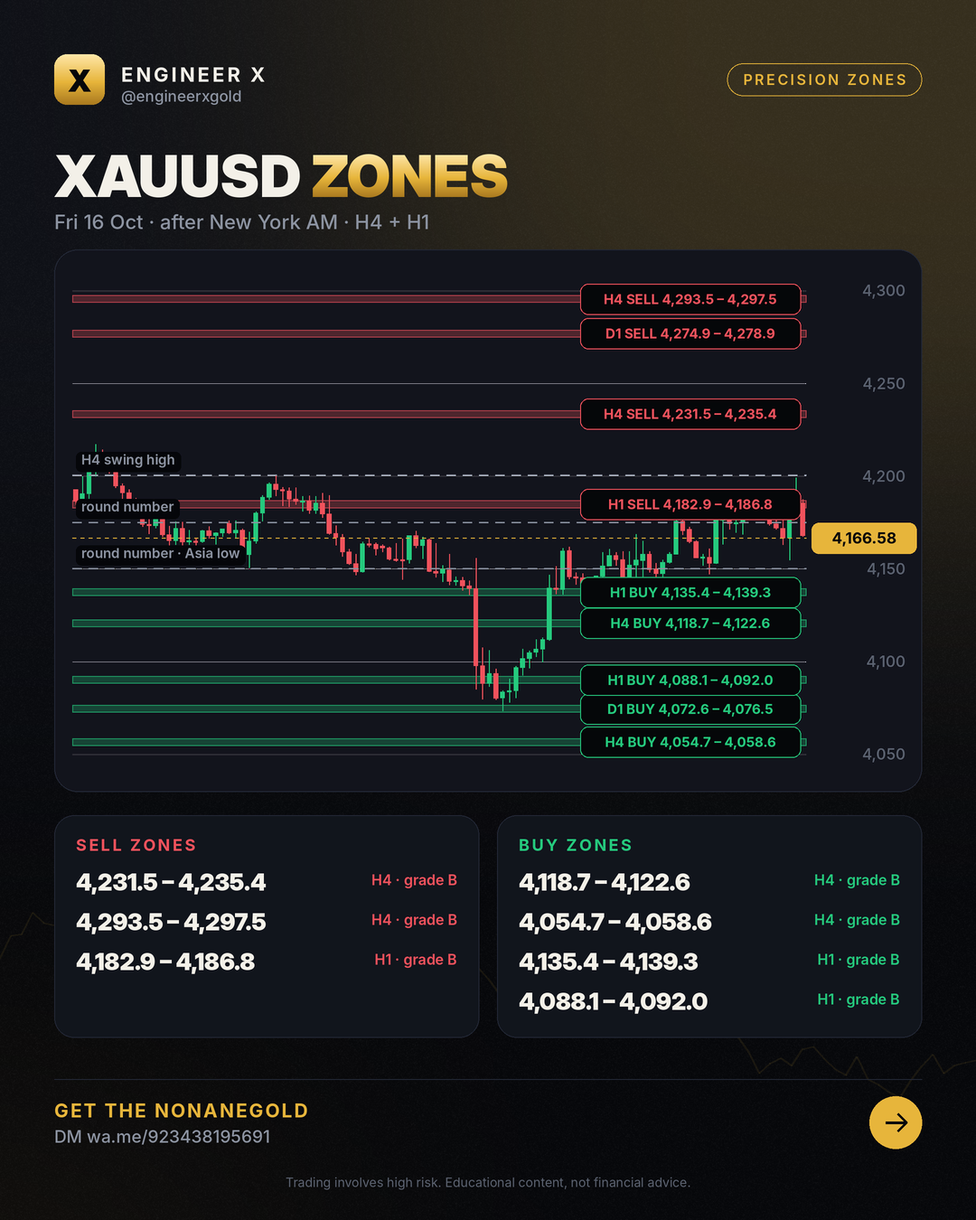
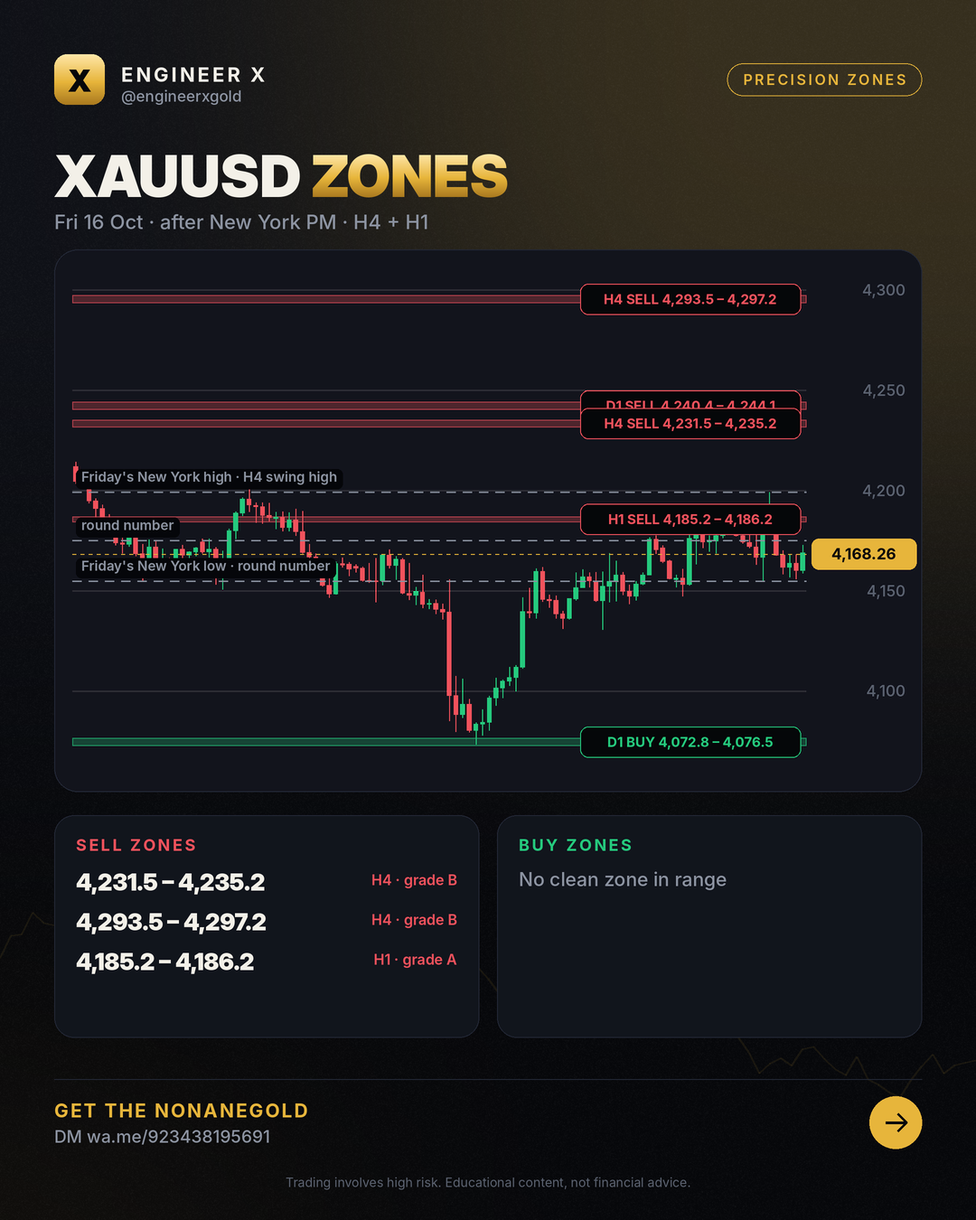
zones 2026-10-16 Fri 16 Oct · after New York PM · H4 + H1

diff --git a/zones/2026-10-16/index.html b/zones/2026-10-16/index.html
@@ -4,7 +4,7 @@
 <meta charset="utf-8">
 <meta name="viewport" content="width=device-width,initial-scale=1">
 <title>Gold Forecast – 16 Oct 2026 (H4 + H1)</title>
-<meta name="description" content="XAUUSD buy and sell zones for 2026-10-16: narrow H4 and H1 bands with invalidation levels, updated after the Asian, London and New York sessions. Price 4,166.58.">
+<meta name="description" content="XAUUSD buy and sell zones for 2026-10-16: narrow H4 and H1 bands with invalidation levels, updated after the Asian, London and New York sessions. Price 4,168.26.">
 <meta name="robots" content="index,follow,max-image-preview:large,max-snippet:-1,max-video-preview:-1">
 <meta name="author" content="Engr. M Ahmad Mehmood">
 <link rel="canonical" href="https://engineerxgold.github.io/zones/2026-10-16/">
@@ -12,7 +12,7 @@
 <link rel="apple-touch-icon" href="../../img/logo.png">
 <meta property="og:site_name" content="Engineer X">
 <meta property="og:title" content="Gold Forecast – 16 Oct 2026 (H4 + H1)">
-<meta property="og:description" content="XAUUSD buy and sell zones for 2026-10-16: narrow H4 and H1 bands with invalidation levels, updated after the Asian, London and New York sessions. Price 4,166.58.">
+<meta property="og:description" content="XAUUSD buy and sell zones for 2026-10-16: narrow H4 and H1 bands with invalidation levels, updated after the Asian, London and New York sessions. Price 4,168.26.">
 <meta property="og:type" content="article">
 <meta property="og:url" content="https://engineerxgold.github.io/zones/2026-10-16/">
 <meta property="og:image" content="https://engineerxgold.github.io/zones/img/2026-10-16.png">
@@ -22,7 +22,7 @@
 <meta property="og:locale" content="en_US">
 <meta name="twitter:card" content="summary_large_image">
 <meta name="twitter:title" content="Gold Forecast – 16 Oct 2026 (H4 + H1)">
-<meta name="twitter:description" content="XAUUSD buy and sell zones for 2026-10-16: narrow H4 and H1 bands with invalidation levels, updated after the Asian, London and New York sessions. Price 4,166.58.">
+<meta name="twitter:description" content="XAUUSD buy and sell zones for 2026-10-16: narrow H4 and H1 bands with invalidation levels, updated after the Asian, London and New York sessions. Price 4,168.26.">
 <meta name="twitter:image" content="https://engineerxgold.github.io/zones/img/2026-10-16.png">
 <meta name="twitter:image:alt" content="Gold Forecast – 16 Oct 2026 (H4 + H1)">
 
@@ -32,7 +32,7 @@
 <link rel="preconnect" href="https://fonts.googleapis.com">
 <link rel="preconnect" href="https://fonts.gstatic.com" crossorigin>
 <link href="https://fonts.googleapis.com/css2?family=Inter:wght@400;500;600;800;900&display=swap" rel="stylesheet">
-<script type="application/ld+json">{"@context": "https://schema.org", "@type": "Organization", "@id": "https://engineerxgold.github.io/#organization", "name": "Engineer X", "url": "https://engineerxgold.github.io/", "logo": {"@type": "ImageObject", "url": "https://engineerxgold.github.io/img/logo.png", "width": 512, "height": 512}, "sameAs": ["https://t.me/engineerxgold"]}</script><script type="application/ld+json">{"@context": "https://schema.org", "@type": "Article", "headline": "Gold Forecast – 16 Oct 2026 (H4 + H1)", "datePublished": "2026-10-16T08:00:00+05:00", "dateModified": "2026-10-16T21:03:28+05:00", "author": {"@type": "Person", "@id": "https://engineerxgold.github.io/about/#author", "name": "Engr. M Ahmad Mehmood", "url": "https://engineerxgold.github.io/about/", "jobTitle": "MQL5 Expert Advisor developer and gold market analyst", "worksFor": {"@id": "https://engineerxgold.github.io/#organization"}}, "publisher": {"@id": "https://engineerxgold.github.io/#organization"}, "image": "https://engineerxgold.github.io/zones/img/2026-10-16.png", "mainEntityOfPage": "https://engineerxgold.github.io/zones/2026-10-16/"}</script>
+<script type="application/ld+json">{"@context": "https://schema.org", "@type": "Organization", "@id": "https://engineerxgold.github.io/#organization", "name": "Engineer X", "url": "https://engineerxgold.github.io/", "logo": {"@type": "ImageObject", "url": "https://engineerxgold.github.io/img/logo.png", "width": 512, "height": 512}, "sameAs": ["https://t.me/engineerxgold"]}</script><script type="application/ld+json">{"@context": "https://schema.org", "@type": "Article", "headline": "Gold Forecast – 16 Oct 2026 (H4 + H1)", "datePublished": "2026-10-16T08:00:00+05:00", "dateModified": "2026-10-17T02:02:35+05:00", "author": {"@type": "Person", "@id": "https://engineerxgold.github.io/about/#author", "name": "Engr. M Ahmad Mehmood", "url": "https://engineerxgold.github.io/about/", "jobTitle": "MQL5 Expert Advisor developer and gold market analyst", "worksFor": {"@id": "https://engineerxgold.github.io/#organization"}}, "publisher": {"@id": "https://engineerxgold.github.io/#organization"}, "image": "https://engineerxgold.github.io/zones/img/2026-10-16.png", "mainEntityOfPage": "https://engineerxgold.github.io/zones/2026-10-16/"}</script>
 
 <style>
 :root{--gold:#E7B53B;--gold-hi:#FFE7A8;--bg:#07080B;--bg2:#0E1016;--panel:#12151D;--line:#232836;--green:#25C97D;--red:#F0525C;--text:#F3F0E8;--muted:#8C93A1}
@@ -101,7 +101,7 @@ footer .fl a{color:var(--muted);margin-right:16px}
 <div class="wrap">
 <nav><a class="logo" href="../../"><b>X</b>Engineer X</a>
 <div class="links"><a href="../../zones/">Daily Zones</a><a href="../../blog/">Learn</a><a href="../../ea/">Gold EA</a><a href="../../about/">About</a><a class="cta" href="https://wa.me/923438195691">Get the EA</a></div></nav>
-<article><p class="crumbs"><a href="../../">Home</a> › <a href="../">Zones</a> › 2026-10-16</p><h1>Gold Forecast – 16 Oct 2026 (H4 + H1)</h1><p class="byline">Fri 16 Oct · after New York AM · H4 + H1 · by Engr. M Ahmad Mehmood</p><img src="../img/2026-10-16.png" alt="XAUUSD zone map 2026-10-16" width="1080" height="1350" loading="eager"><h2>Zones</h2><div style="overflow-x:auto"><table style="width:100%;border-collapse:collapse;font-size:15px"><tr><th align=left>Zone</th><th align=left>Price band</th><th>Grade</th><th align=left>Invalid</th><th align=left>Why</th></tr><tr><td>D1 sell</td><td><b>4,274.91 – 4,278.85</b></td><td>A</td><td>above 4,315.83</td><td>D1 OB; order block: displacement + gap + break of structure; liquidity taken before the move; 1 lower-timeframe POI overlap; premium; fresh</td></tr><tr><td>H4 sell</td><td><b>4,231.49 – 4,235.43</b></td><td>B</td><td>above 4,279.67</td><td>H4 FVG; premium; just beyond H4 swing high (sweep area); fresh</td></tr><tr><td>H4 sell</td><td><b>4,293.53 – 4,297.47</b></td><td>B</td><td>above 4,315.83</td><td>H4 OB; order block: displacement + gap + break of structure; liquidity taken before the move; premium; fresh</td></tr><tr><td>H1 sell</td><td><b>4,182.88 – 4,186.82</b></td><td>B</td><td>above 4,194.69</td><td>beyond round number (stops rest there; sweeps often end here)</td></tr><tr><td>H1 buy</td><td><b>4,135.37 – 4,139.31</b></td><td>B</td><td>below 4,127.50</td><td>beyond Asia low + round number (stops rest there; sweeps often end here)</td></tr><tr><td>H1 buy</td><td><b>4,088.10 – 4,092.04</b></td><td>B</td><td>below 4,080.23</td><td>beyond previous day low (stops rest there; sweeps often end here)</td></tr><tr><td>H4 buy</td><td><b>4,118.70 – 4,122.64</b></td><td>B</td><td>below 4,110.83</td><td>beyond H4 swing low + yesterday&#x27;s New York low (stops rest there; sweeps often end here)</td></tr><tr><td>H4 buy</td><td><b>4,054.66 – 4,058.60</b></td><td>B</td><td>below 4,046.79</td><td>beyond previous week low + H4 swing low (stops rest there; sweeps often end here)</td></tr><tr><td>D1 buy</td><td><b>4,072.59 – 4,076.53</b></td><td>B</td><td>below 4,019.08</td><td>D1 OB; order block: displacement + gap + break of structure; liquidity taken before the move; discount; liquidity on the zone (H4 swing low) - often run; tested</td></tr></table></div><h2>How to read this map</h2><p>Bands are where price is expected to react; they are not entries. An hourly close beyond the invalidation price ends the zone. Obvious highs and lows (listed as liquidity) are often swept first, so our zones sit just beyond them.</p><div class="ctabox"><h3>🤖 Trade the zones with the NonaneGold</h3><p>Free signals group access + setup help Message us and we will help you set it up.</p><div class="btns"><a class="btn gold" href="https://wa.me/923438195691">Get the EA on Telegram</a><a class="btn ghost" href="../../ea/">About the EA</a></div></div></article>
+<article><p class="crumbs"><a href="../../">Home</a> › <a href="../">Zones</a> › 2026-10-16</p><h1>Gold Forecast – 16 Oct 2026 (H4 + H1)</h1><p class="byline">Fri 16 Oct · after New York PM · H4 + H1 · by Engr. M Ahmad Mehmood</p><img src="../img/2026-10-16.png" alt="XAUUSD zone map 2026-10-16" width="1080" height="1350" loading="eager"><h2>Zones</h2><div style="overflow-x:auto"><table style="width:100%;border-collapse:collapse;font-size:15px"><tr><th align=left>Zone</th><th align=left>Price band</th><th>Grade</th><th align=left>Invalid</th><th align=left>Why</th></tr><tr><td>D1 sell</td><td><b>4,240.38 – 4,244.10</b></td><td>A</td><td>above 4,304.08</td><td>D1 BRK; breaker: failed order block, now the other side; 1 lower-timeframe POI overlap; premium; just beyond H4 swing high (sweep area); fresh</td></tr><tr><td>H4 sell</td><td><b>4,231.49 – 4,235.21</b></td><td>B</td><td>above 4,279.67</td><td>H4 FVG; opposing liquidity (same timeframe) already swept - ICT: the draw may have flipped; premium; just beyond H4 swing high (sweep area); fresh</td></tr><tr><td>H4 sell</td><td><b>4,293.53 – 4,297.25</b></td><td>B</td><td>above 4,315.83</td><td>H4 OB; order block: displacement + gap + break of structure; opposing liquidity (same timeframe) already swept - ICT: the draw may have flipped; liquidity taken</td></tr><tr><td>H1 sell</td><td><b>4,185.17 – 4,186.17</b></td><td>A</td><td>above 4,199.06</td><td>H1 OB; order block: displacement + gap + break of structure; equal lows below = draw on liquidity; liquidity taken before the move; premium; just beyond round n</td></tr><tr><td>D1 buy</td><td><b>4,072.81 – 4,076.53</b></td><td>B</td><td>below 4,019.08</td><td>D1 OB; order block: displacement + gap + break of structure; liquidity taken before the move; discount; liquidity on the zone (H4 swing low) - often run; tested</td></tr></table></div><h2>How to read this map</h2><p>Bands are where price is expected to react; they are not entries. An hourly close beyond the invalidation price ends the zone. Obvious highs and lows (listed as liquidity) are often swept first, so our zones sit just beyond them.</p><div class="ctabox"><h3>🤖 Trade the zones with the NonaneGold</h3><p>Free signals group access + setup help Message us and we will help you set it up.</p><div class="btns"><a class="btn gold" href="https://wa.me/923438195691">Get the EA on Telegram</a><a class="btn ghost" href="../../ea/">About the EA</a></div></div></article>
 <footer>
 <div class="warn"><b>Risk warning:</b> Trading gold, forex and CFDs carries a high risk of losing money and is not suitable for everyone. Past results do not guarantee future results. Everything on this site is educational and not financial advice. We are an introducing partner of our broker and may earn a commission on accounts opened through our link.</div>
 <p class="fl" style="margin-top:18px"><a href="../../about/">About &amp; methodology</a><a href="../../privacy.html">Privacy</a><a href="../../terms.html">Terms &amp; risk disclosure</a><a href="../../feed.xml">RSS</a><a href="https://t.me/engineerxgold">Telegram</a></p>

diff --git a/zones/index.html b/zones/index.html
@@ -4,7 +4,7 @@
 <meta charset="utf-8">
 <meta name="viewport" content="width=device-width,initial-scale=1">
 <title>XAUUSD Zones Today – Buy &amp; Sell Zones (H4, H1) | Engineer X</title>
-<meta name="description" content="XAUUSD buy and sell zones for 2026-10-16: narrow H4 and H1 bands with invalidation levels, updated after the Asian, London and New York sessions. Price 4,166.58.">
+<meta name="description" content="XAUUSD buy and sell zones for 2026-10-16: narrow H4 and H1 bands with invalidation levels, updated after the Asian, London and New York sessions. Price 4,168.26.">
 <meta name="robots" content="index,follow,max-image-preview:large,max-snippet:-1,max-video-preview:-1">
 <meta name="author" content="Engr. M Ahmad Mehmood">
 <link rel="canonical" href="https://engineerxgold.github.io/zones/">
@@ -12,7 +12,7 @@
 <link rel="apple-touch-icon" href="../img/logo.png">
 <meta property="og:site_name" content="Engineer X">
 <meta property="og:title" content="XAUUSD Zones Today – Buy &amp; Sell Zones (H4, H1) | Engineer X">
-<meta property="og:description" content="XAUUSD buy and sell zones for 2026-10-16: narrow H4 and H1 bands with invalidation levels, updated after the Asian, London and New York sessions. Price 4,166.58.">
+<meta property="og:description" content="XAUUSD buy and sell zones for 2026-10-16: narrow H4 and H1 bands with invalidation levels, updated after the Asian, London and New York sessions. Price 4,168.26.">
 <meta property="og:type" content="website">
 <meta property="og:url" content="https://engineerxgold.github.io/zones/">
 <meta property="og:image" content="https://engineerxgold.github.io/zones/img/2026-10-16.png">
@@ -22,7 +22,7 @@
 <meta property="og:locale" content="en_US">
 <meta name="twitter:card" content="summary_large_image">
 <meta name="twitter:title" content="XAUUSD Zones Today – Buy &amp; Sell Zones (H4, H1) | Engineer X">
-<meta name="twitter:description" content="XAUUSD buy and sell zones for 2026-10-16: narrow H4 and H1 bands with invalidation levels, updated after the Asian, London and New York sessions. Price 4,166.58.">
+<meta name="twitter:description" content="XAUUSD buy and sell zones for 2026-10-16: narrow H4 and H1 bands with invalidation levels, updated after the Asian, London and New York sessions. Price 4,168.26.">
 <meta name="twitter:image" content="https://engineerxgold.github.io/zones/img/2026-10-16.png">
 <meta name="twitter:image:alt" content="XAUUSD Zones Today – Buy &amp; Sell Zones (H4, H1) | Engineer X">
 
@@ -101,7 +101,7 @@ footer .fl a{color:var(--muted);margin-right:16px}
 <div class="wrap">
 <nav><a class="logo" href="../"><b>X</b>Engineer X</a>
 <div class="links"><a href="../zones/">Daily Zones</a><a href="../blog/">Learn</a><a href="../ea/">Gold EA</a><a href="../about/">About</a><a class="cta" href="https://wa.me/923438195691">Get the EA</a></div></nav>
-<section class="hero"><span class="chip">Updated Fri 16 Oct · after New York AM · H4 + H1</span><h1>XAUUSD <span class="gold">precision zones</span></h1><p>XAUUSD buy and sell zones for 2026-10-16: narrow H4 and H1 bands with invalidation levels, updated after the Asian, London and New York sessions. Price 4,166.58.</p></section><img src="img/2026-10-16.png" alt="Latest XAUUSD zone map" width="1080" height="1350"><section><h2>Current zones</h2><div style="overflow-x:auto"><table style="width:100%;border-collapse:collapse;font-size:15px"><tr><th align=left>Zone</th><th align=left>Price band</th><th>Grade</th><th align=left>Invalid</th><th align=left>Why</th></tr><tr><td>D1 sell</td><td><b>4,274.91 – 4,278.85</b></td><td>A</td><td>above 4,315.83</td><td>D1 OB; order block: displacement + gap + break of structure; liquidity taken before the move; 1 lower-timeframe POI overlap; premium; fresh</td></tr><tr><td>H4 sell</td><td><b>4,231.49 – 4,235.43</b></td><td>B</td><td>above 4,279.67</td><td>H4 FVG; premium; just beyond H4 swing high (sweep area); fresh</td></tr><tr><td>H4 sell</td><td><b>4,293.53 – 4,297.47</b></td><td>B</td><td>above 4,315.83</td><td>H4 OB; order block: displacement + gap + break of structure; liquidity taken before the move; premium; fresh</td></tr><tr><td>H1 sell</td><td><b>4,182.88 – 4,186.82</b></td><td>B</td><td>above 4,194.69</td><td>beyond round number (stops rest there; sweeps often end here)</td></tr><tr><td>H1 buy</td><td><b>4,135.37 – 4,139.31</b></td><td>B</td><td>below 4,127.50</td><td>beyond Asia low + round number (stops rest there; sweeps often end here)</td></tr><tr><td>H1 buy</td><td><b>4,088.10 – 4,092.04</b></td><td>B</td><td>below 4,080.23</td><td>beyond previous day low (stops rest there; sweeps often end here)</td></tr><tr><td>H4 buy</td><td><b>4,118.70 – 4,122.64</b></td><td>B</td><td>below 4,110.83</td><td>beyond H4 swing low + yesterday&#x27;s New York low (stops rest there; sweeps often end here)</td></tr><tr><td>H4 buy</td><td><b>4,054.66 – 4,058.60</b></td><td>B</td><td>below 4,046.79</td><td>beyond previous week low + H4 swing low (stops rest there; sweeps often end here)</td></tr><tr><td>D1 buy</td><td><b>4,072.59 – 4,076.53</b></td><td>B</td><td>below 4,019.08</td><td>D1 OB; order block: displacement + gap + break of structure; liquidity taken before the move; discount; liquidity on the zone (H4 swing low) - often run; tested</td></tr></table></div></section><section><h2>Honest scorecard</h2><div class="grid"><div class="card"><div class="n">99</div><p>zones published (30 days)</p></div><div class="card"><div class="n">41</div><p>held (moved 1 hourly ATR away)</p></div><div class="card"><div class="n">3</div><p>broke (hourly close beyond invalidation)</p></div><div class="card"><div class="n">93%</div><p>hold rate of decided zones</p></div></div></section><div class="ctabox"><h3>🤖 Trade the zones with the NonaneGold</h3><p>Free signals group access + setup help Message us and we will help you set it up.</p><div class="btns"><a class="btn gold" href="https://wa.me/923438195691">Get the EA on Telegram</a><a class="btn ghost" href="../ea/">About the EA</a></div></div><section><h2>Archive</h2><div class="grid posts"><a class="card" href="2026-10-16/"><span class="date">2026-10-16</span><h3>XAUUSD zones 2026-10-16</h3></a><a class="card" href="2026-10-15/"><span class="date">2026-10-15</span><h3>XAUUSD zones 2026-10-15</h3></a><a class="card" href="2026-10-14/"><span class="date">2026-10-14</span><h3>XAUUSD zones 2026-10-14</h3></a><a class="card" href="2026-10-13/"><span class="date">2026-10-13</span><h3>XAUUSD zones 2026-10-13</h3></a></div></section>
+<section class="hero"><span class="chip">Updated Fri 16 Oct · after New York PM · H4 + H1</span><h1>XAUUSD <span class="gold">precision zones</span></h1><p>XAUUSD buy and sell zones for 2026-10-16: narrow H4 and H1 bands with invalidation levels, updated after the Asian, London and New York sessions. Price 4,168.26.</p></section><img src="img/2026-10-16.png" alt="Latest XAUUSD zone map" width="1080" height="1350"><section><h2>Current zones</h2><div style="overflow-x:auto"><table style="width:100%;border-collapse:collapse;font-size:15px"><tr><th align=left>Zone</th><th align=left>Price band</th><th>Grade</th><th align=left>Invalid</th><th align=left>Why</th></tr><tr><td>D1 sell</td><td><b>4,240.38 – 4,244.10</b></td><td>A</td><td>above 4,304.08</td><td>D1 BRK; breaker: failed order block, now the other side; 1 lower-timeframe POI overlap; premium; just beyond H4 swing high (sweep area); fresh</td></tr><tr><td>H4 sell</td><td><b>4,231.49 – 4,235.21</b></td><td>B</td><td>above 4,279.67</td><td>H4 FVG; opposing liquidity (same timeframe) already swept - ICT: the draw may have flipped; premium; just beyond H4 swing high (sweep area); fresh</td></tr><tr><td>H4 sell</td><td><b>4,293.53 – 4,297.25</b></td><td>B</td><td>above 4,315.83</td><td>H4 OB; order block: displacement + gap + break of structure; opposing liquidity (same timeframe) already swept - ICT: the draw may have flipped; liquidity taken</td></tr><tr><td>H1 sell</td><td><b>4,185.17 – 4,186.17</b></td><td>A</td><td>above 4,199.06</td><td>H1 OB; order block: displacement + gap + break of structure; equal lows below = draw on liquidity; liquidity taken before the move; premium; just beyond round n</td></tr><tr><td>D1 buy</td><td><b>4,072.81 – 4,076.53</b></td><td>B</td><td>below 4,019.08</td><td>D1 OB; order block: displacement + gap + break of structure; liquidity taken before the move; discount; liquidity on the zone (H4 swing low) - often run; tested</td></tr></table></div></section><section><h2>Honest scorecard</h2><div class="grid"><div class="card"><div class="n">107</div><p>zones published (30 days)</p></div><div class="card"><div class="n">41</div><p>held (moved 1 hourly ATR away)</p></div><div class="card"><div class="n">3</div><p>broke (hourly close beyond invalidation)</p></div><div class="card"><div class="n">93%</div><p>hold rate of decided zones</p></div></div></section><div class="ctabox"><h3>🤖 Trade the zones with the NonaneGold</h3><p>Free signals group access + setup help Message us and we will help you set it up.</p><div class="btns"><a class="btn gold" href="https://wa.me/923438195691">Get the EA on Telegram</a><a class="btn ghost" href="../ea/">About the EA</a></div></div><section><h2>Archive</h2><div class="grid posts"><a class="card" href="2026-10-16/"><span class="date">2026-10-16</span><h3>XAUUSD zones 2026-10-16</h3></a><a class="card" href="2026-10-15/"><span class="date">2026-10-15</span><h3>XAUUSD zones 2026-10-15</h3></a><a class="card" href="2026-10-14/"><span class="date">2026-10-14</span><h3>XAUUSD zones 2026-10-14</h3></a><a class="card" href="2026-10-13/"><span class="date">2026-10-13</span><h3>XAUUSD zones 2026-10-13</h3></a></div></section>
 <footer>
 <div class="warn"><b>Risk warning:</b> Trading gold, forex and CFDs carries a high risk of losing money and is not suitable for everyone. Past results do not guarantee future results. Everything on this site is educational and not financial advice. We are an introducing partner of our broker and may earn a commission on accounts opened through our link.</div>
 <p class="fl" style="margin-top:18px"><a href="../about/">About &amp; methodology</a><a href="../privacy.html">Privacy</a><a href="../terms.html">Terms &amp; risk disclosure</a><a href="../feed.xml">RSS</a><a href="https://t.me/engineerxgold">Telegram</a></p>

diff --git a/index.html b/index.html
@@ -101,7 +101,7 @@ footer .fl a{color:var(--muted);margin-right:16px}
 <div class="wrap">
 <nav><a class="logo" href="./"><b>X</b>Engineer X</a>
 <div class="links"><a href="./zones/">Daily Zones</a><a href="./blog/">Learn</a><a href="./ea/">Gold EA</a><a href="./about/">About</a><a class="cta" href="https://wa.me/923438195691">Get the EA</a></div></nav>
-<section class="hero"><span class="chip">XAUUSD · H4 + H1 · every session</span><h1>Gold <span class="gold">precision zones</span>, updated after every session</h1><p>Narrow buy and sell zones with clear invalidation, a scorecard of every result, and the NonaneGold for traders who want it automated.</p><div class="btns"><a class="btn gold" href="zones/">See today's zones</a><a class="btn ghost" href="https://wa.me/923438195691">Get the EA</a></div></section><section><h2>Latest map Fri 16 Oct · after New York AM · H4 + H1</h2><img src="zones/img/2026-10-16.png" alt="Latest XAUUSD zones" width="1080" height="1350"></section><div class="ctabox"><h3>🤖 Trade the zones with the NonaneGold</h3><p>Free signals group access + setup help Message us and we will help you set it up.</p><div class="btns"><a class="btn gold" href="https://wa.me/923438195691">Get the EA on Telegram</a><a class="btn ghost" href="ea/">About the EA</a></div></div><section><h2>Learn</h2><div class="grid posts"><a class="card" href="blog/gold-trading-h4-trend-and-live-market-zones-map/"><span class="date">2026-10-16</span><h3>Gold Trading: H4 Trend and Live Market Zones Map</h3></a><a class="card" href="blog/gold-price-today-navigating-h4-downtrend-key-zones/"><span class="date">2026-10-15</span><h3>Gold Price Today: Navigating H4 Downtrend &amp; Key Zones</h3></a><a class="card" href="blog/gold-supply-and-demand-zones-h4-h1-trading-map/"><span class="date">2026-10-14</span><h3>Gold Supply and Demand Zones: H4 &amp; H1 Trading Map</h3></a><a class="card" href="blog/gold-trading-strategy-for-zones-and-liquidity-in-xauusd/"><span class="date">2026-10-13</span><h3>Gold trading strategy for zones and liquidity in XAUUSD</h3></a><a class="card" href="blog/stop-loss-ke-baghair-trading-ticket-bina-safar/"><span class="date">2026-10-07</span><h3>Stop loss ke baghair trading = ticket bina safar</h3></a><a class="card" href="blog/gold-ke-3-sab-se-active-sessions/"><span class="date">2026-10-07</span><h3>Gold ke 3 sab se active sessions</h3></a></div></section><section><h2>FAQ</h2><details><summary>What is a precision zone?</summary><p>A narrow price band (about a quarter of the hourly range) where gold started a strong move or where a sweep of obvious liquidity usually ends. Each zone has an invalidation price.</p></details><details><summary>How often are the zones updated?</summary><p>A daily plan at the Asian open, then after the Asian, London and New York sessions.</p></details><details><summary>Are these trade signals?</summary><p>No. Zones are areas to watch. Wait for your own confirmation and manage risk.</p></details><details><summary>How do I get the Gold EA?</summary><p>Message us on Telegram or WhatsApp; we answer and help with the setup.</p></details></section>
+<section class="hero"><span class="chip">XAUUSD · H4 + H1 · every session</span><h1>Gold <span class="gold">precision zones</span>, updated after every session</h1><p>Narrow buy and sell zones with clear invalidation, a scorecard of every result, and the NonaneGold for traders who want it automated.</p><div class="btns"><a class="btn gold" href="zones/">See today's zones</a><a class="btn ghost" href="https://wa.me/923438195691">Get the EA</a></div></section><section><h2>Latest map Fri 16 Oct · after New York PM · H4 + H1</h2><img src="zones/img/2026-10-16.png" alt="Latest XAUUSD zones" width="1080" height="1350"></section><div class="ctabox"><h3>🤖 Trade the zones with the NonaneGold</h3><p>Free signals group access + setup help Message us and we will help you set it up.</p><div class="btns"><a class="btn gold" href="https://wa.me/923438195691">Get the EA on Telegram</a><a class="btn ghost" href="ea/">About the EA</a></div></div><section><h2>Learn</h2><div class="grid posts"><a class="card" href="blog/gold-trading-h4-trend-and-live-market-zones-map/"><span class="date">2026-10-16</span><h3>Gold Trading: H4 Trend and Live Market Zones Map</h3></a><a class="card" href="blog/gold-price-today-navigating-h4-downtrend-key-zones/"><span class="date">2026-10-15</span><h3>Gold Price Today: Navigating H4 Downtrend &amp; Key Zones</h3></a><a class="card" href="blog/gold-supply-and-demand-zones-h4-h1-trading-map/"><span class="date">2026-10-14</span><h3>Gold Supply and Demand Zones: H4 &amp; H1 Trading Map</h3></a><a class="card" href="blog/gold-trading-strategy-for-zones-and-liquidity-in-xauusd/"><span class="date">2026-10-13</span><h3>Gold trading strategy for zones and liquidity in XAUUSD</h3></a><a class="card" href="blog/stop-loss-ke-baghair-trading-ticket-bina-safar/"><span class="date">2026-10-07</span><h3>Stop loss ke baghair trading = ticket bina safar</h3></a><a class="card" href="blog/gold-ke-3-sab-se-active-sessions/"><span class="date">2026-10-07</span><h3>Gold ke 3 sab se active sessions</h3></a></div></section><section><h2>FAQ</h2><details><summary>What is a precision zone?</summary><p>A narrow price band (about a quarter of the hourly range) where gold started a strong move or where a sweep of obvious liquidity usually ends. Each zone has an invalidation price.</p></details><details><summary>How often are the zones updated?</summary><p>A daily plan at the Asian open, then after the Asian, London and New York sessions.</p></details><details><summary>Are these trade signals?</summary><p>No. Zones are areas to watch. Wait for your own confirmation and manage risk.</p></details><details><summary>How do I get the Gold EA?</summary><p>Message us on Telegram or WhatsApp; we answer and help with the setup.</p></details></section>
 <footer>
 <div class="warn"><b>Risk warning:</b> Trading gold, forex and CFDs carries a high risk of losing money and is not suitable for everyone. Past results do not guarantee future results. Everything on this site is educational and not financial advice. We are an introducing partner of our broker and may earn a commission on accounts opened through our link.</div>
 <p class="fl" style="margin-top:18px"><a href="./about/">About &amp; methodology</a><a href="./privacy.html">Privacy</a><a href="./terms.html">Terms &amp; risk disclosure</a><a href="./feed.xml">RSS</a><a href="https://t.me/engineerxgold">Telegram</a></p>
